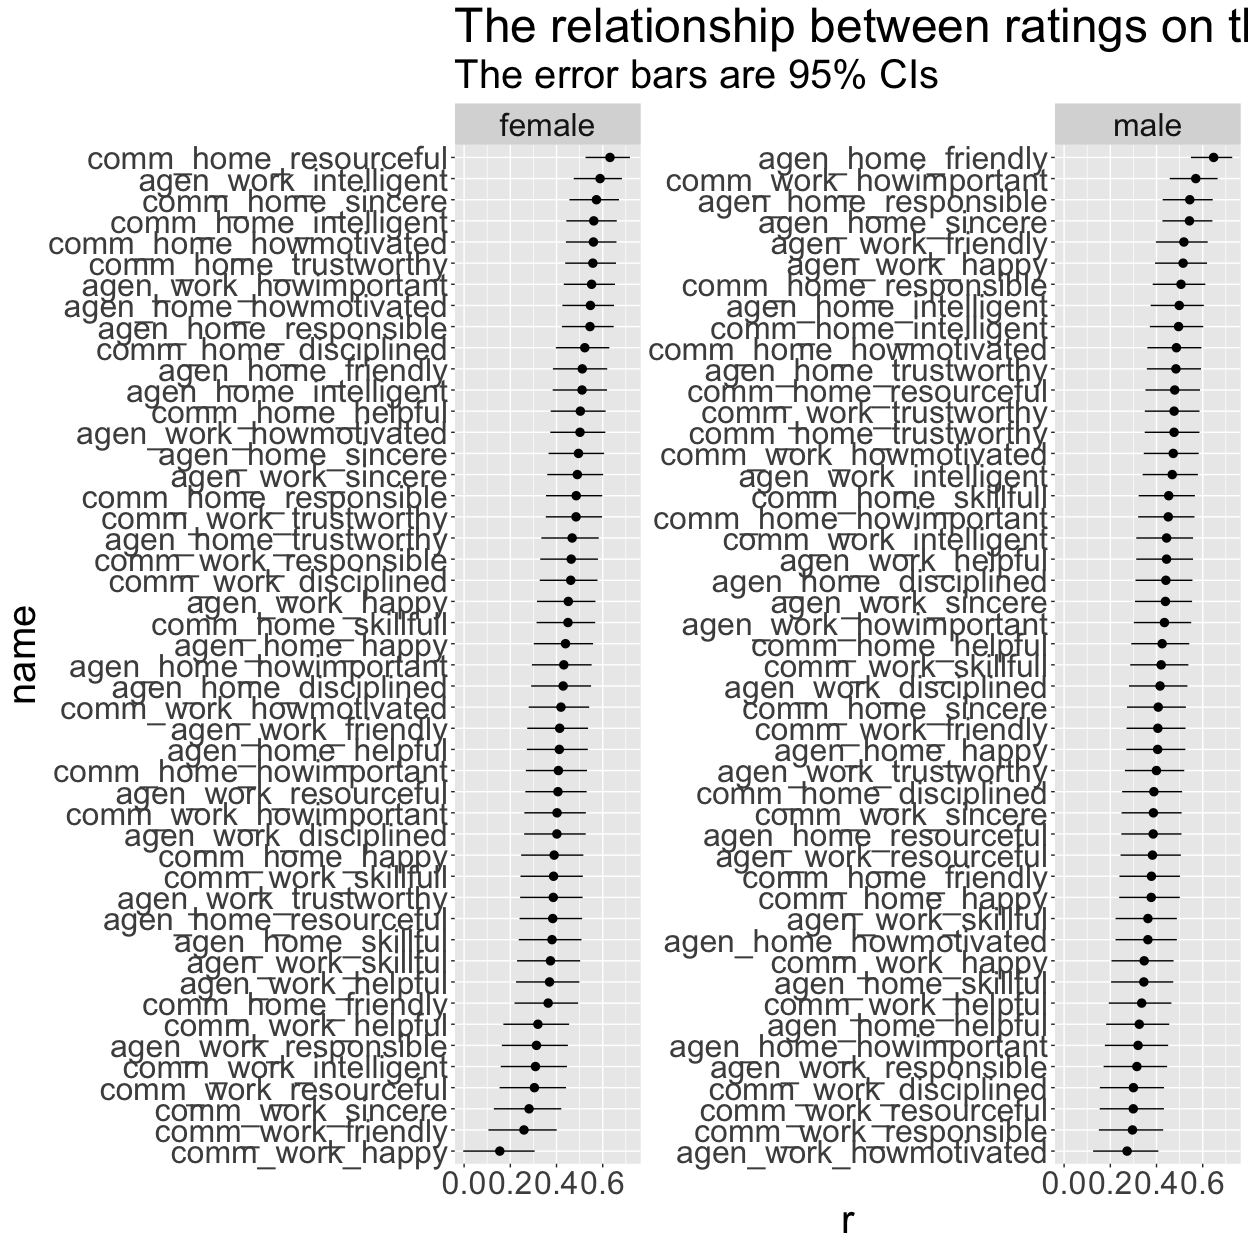
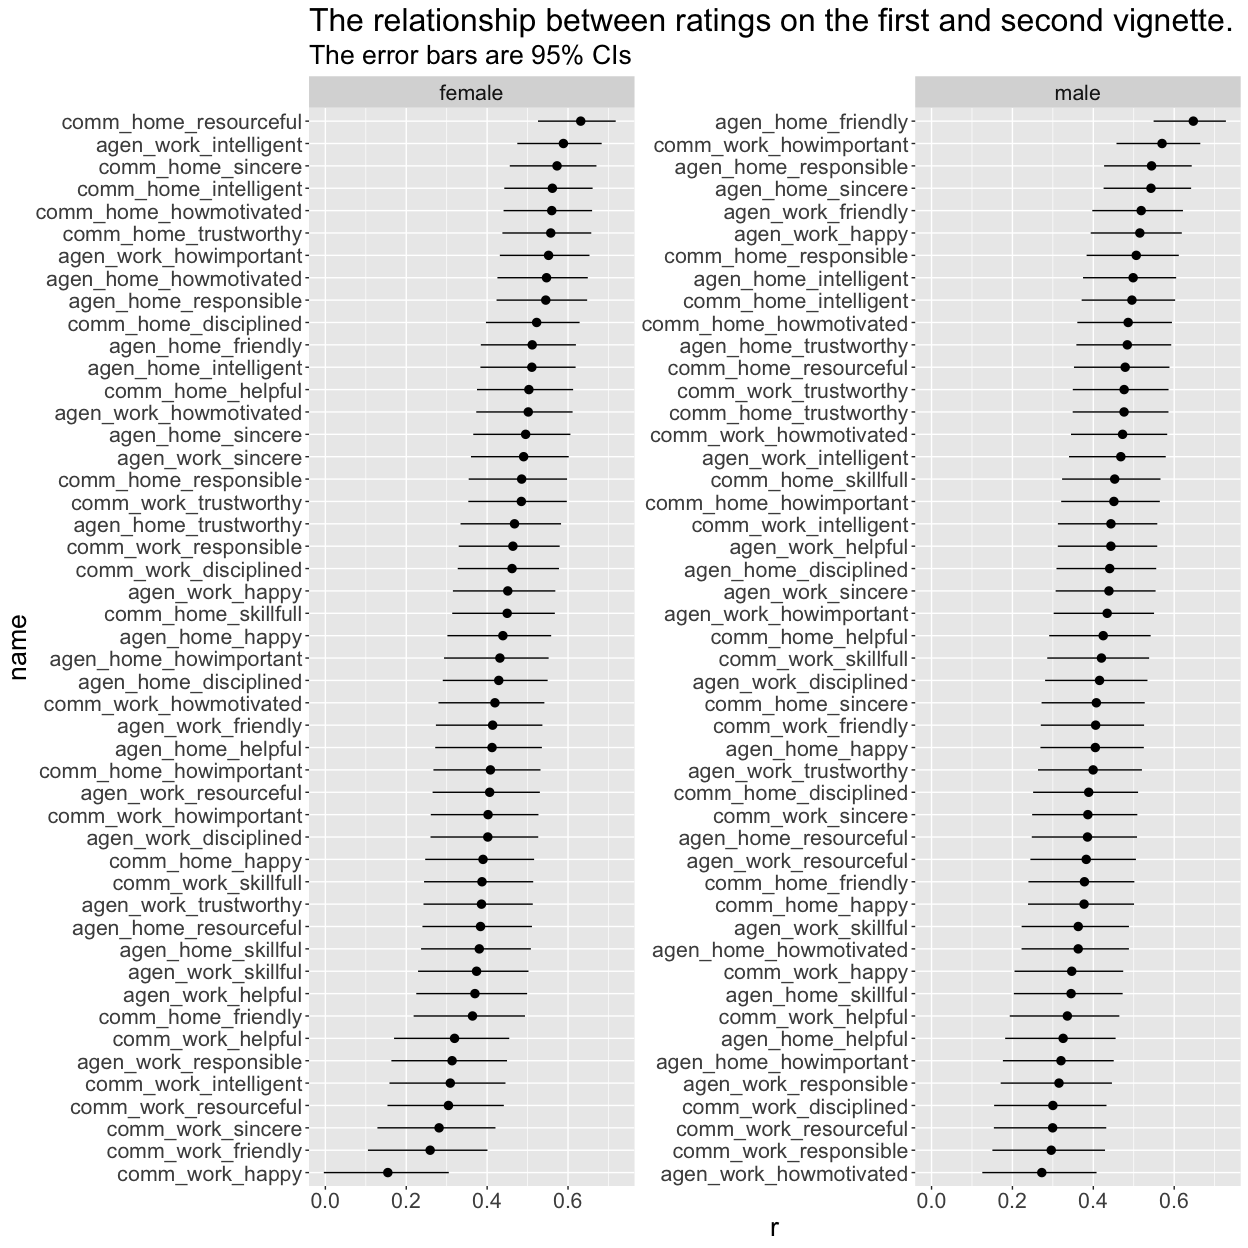
fixing plot text - increase size3

diff --git a/gpof-items.md b/gpof-items.md
@@ -16,7 +16,7 @@ This plot shows the correlations at the item level. E.g., what is the
 correlation between `Agen_Work_Skillful_1` and `Agen_Work_Skillful_2`.
 
 ``` r
-p1 + theme(text = element_text(size=30))
+p1 + theme(text = element_text(size=20))
 ```
 
 ![](gpof-items_files/figure-gfm/unnamed-chunk-2-1.png)<!-- -->
